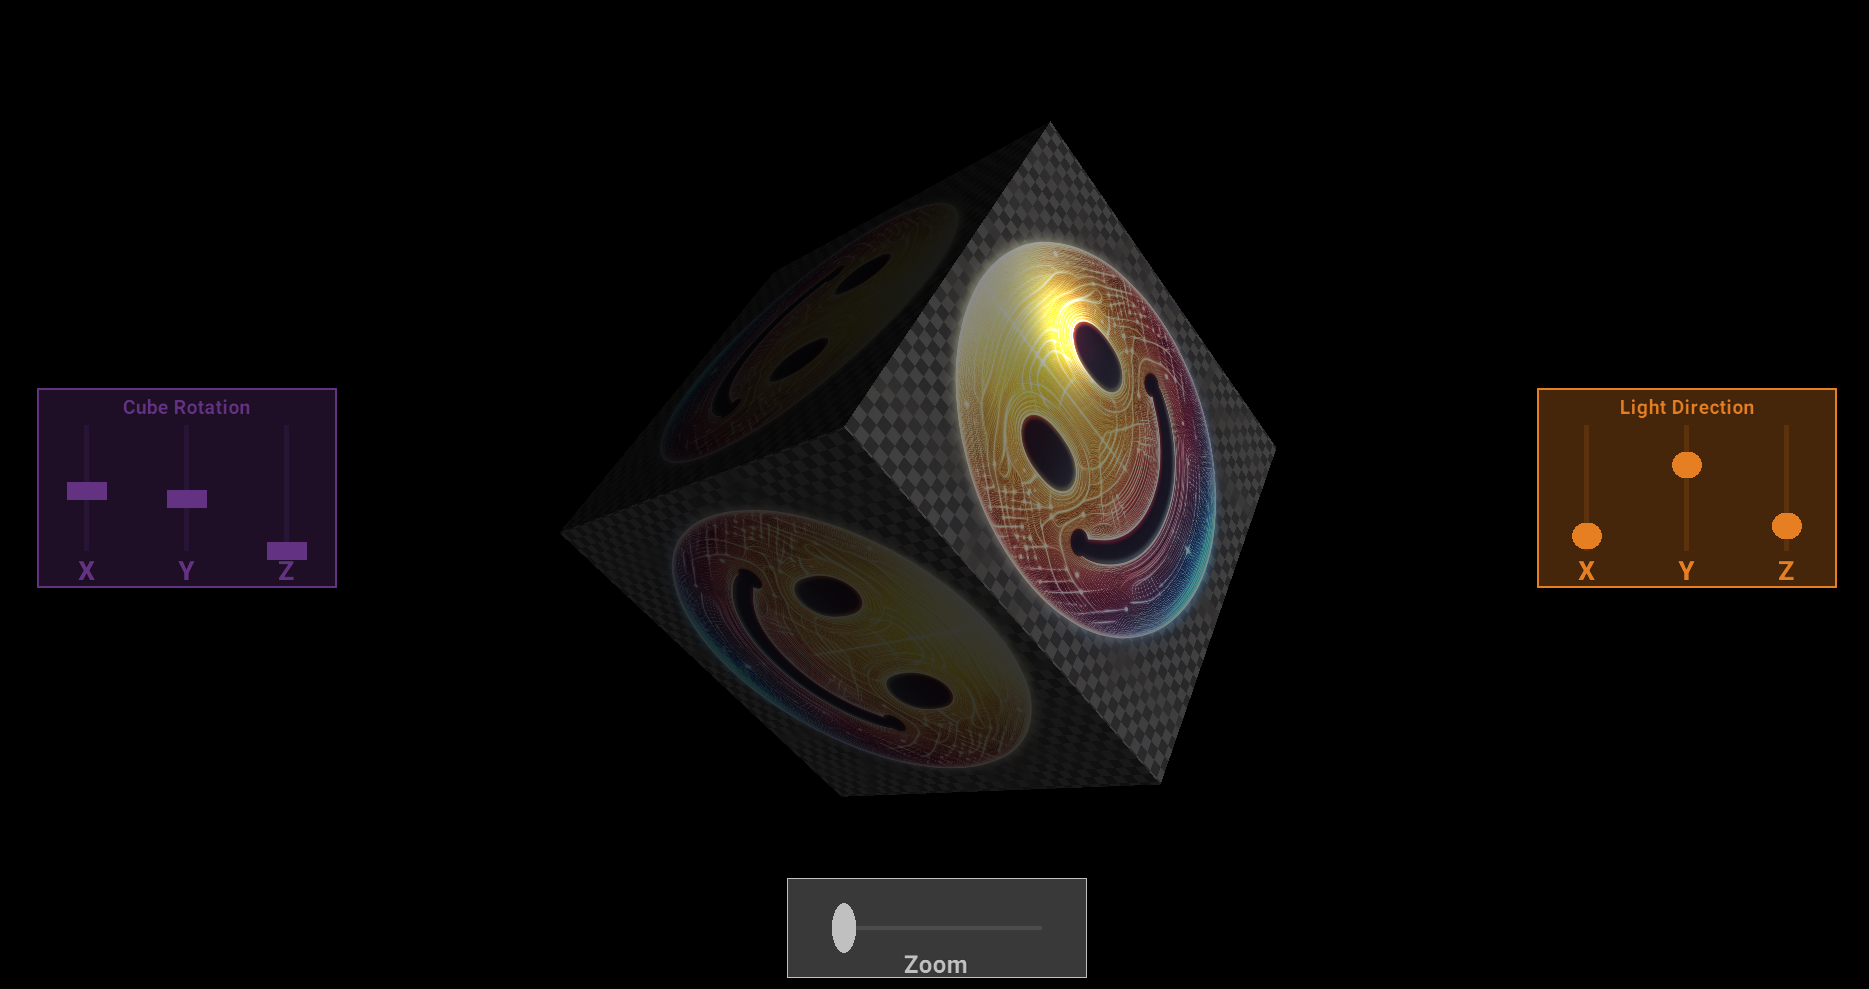
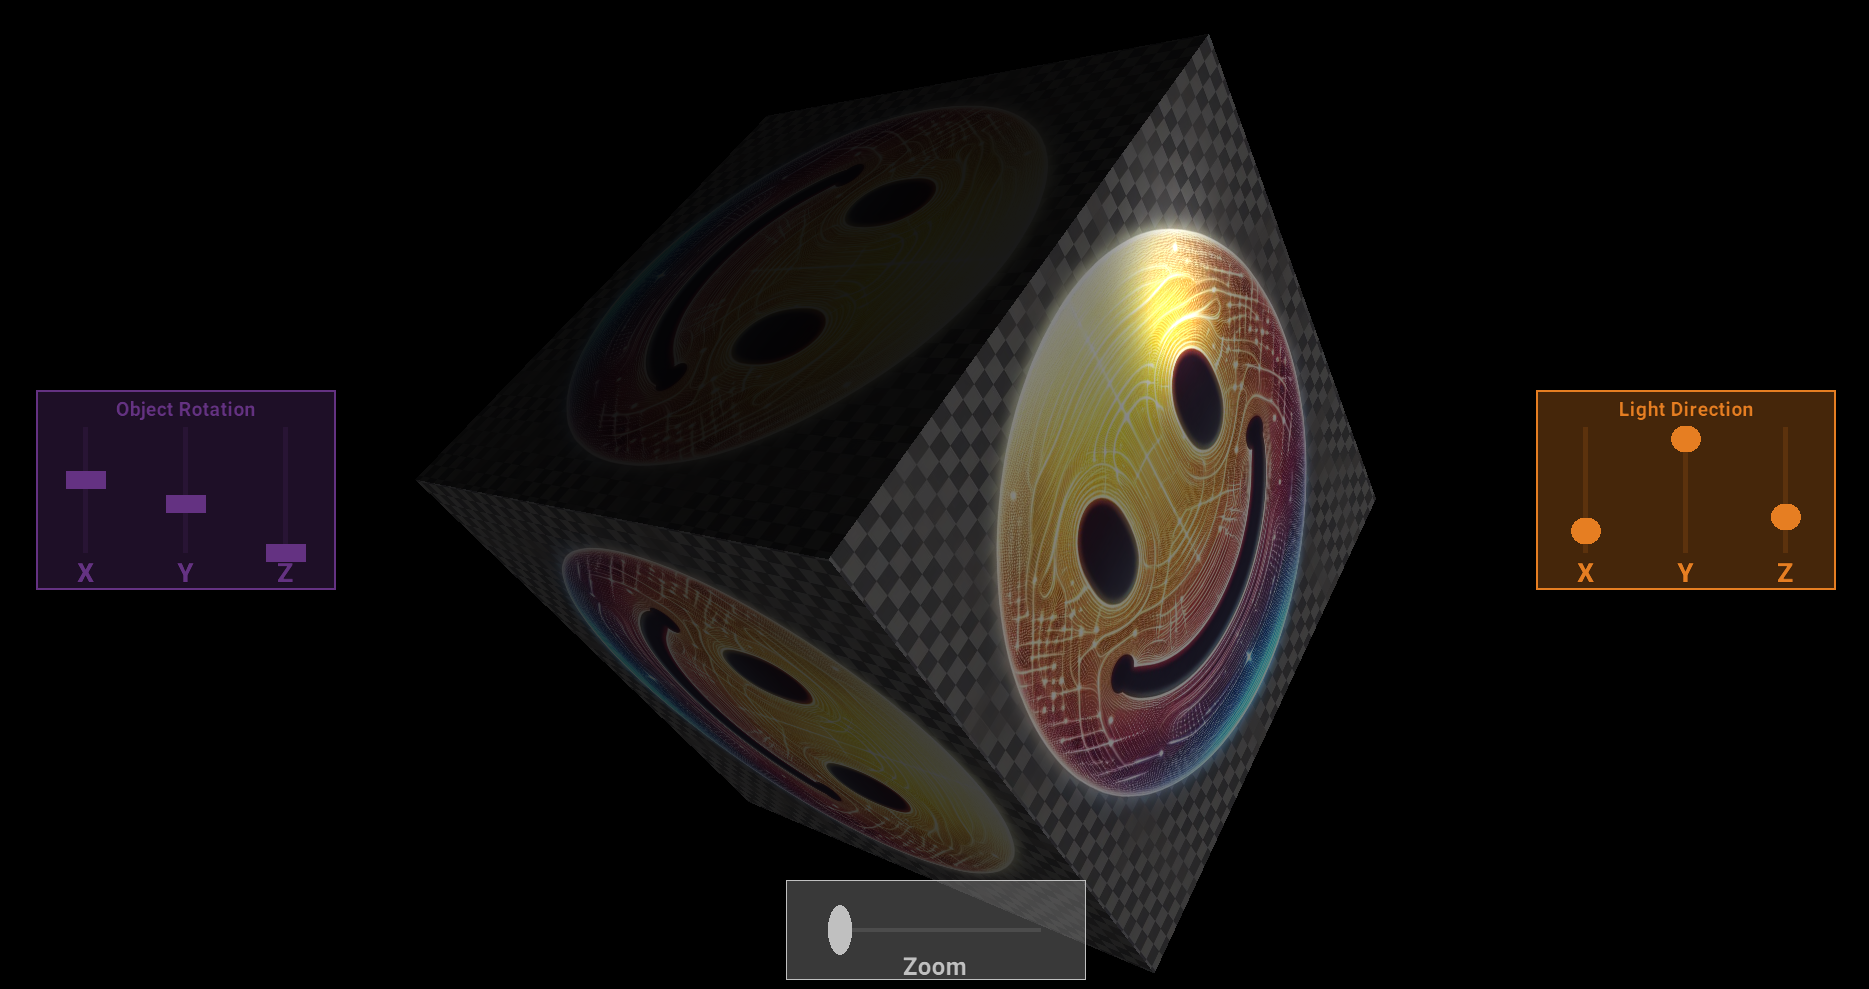
Improve 3D example

diff --git a/examples/3d/object/viewer.go b/examples/3d/object/viewer.go
@@ -62,7 +62,7 @@ func newRotationControl(window *gfx.Window, obj *gfx.Model) *gfx.View {
 	})
 
 	rotControlLabel := gfx.NewLabel()
-	rotControlLabel.SetText("Cube Rotation")
+	rotControlLabel.SetText("Object Rotation")
 	rotControlLabel.SetColor(gfx.Purple)
 	rotControlLabel.SetFontSize(.1)
 	rotControlLabel.SetAnchor(gfx.TopCenter)
